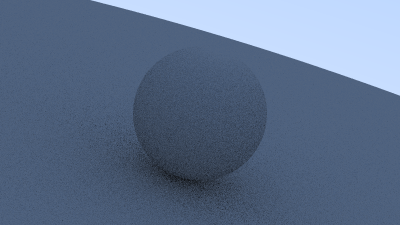
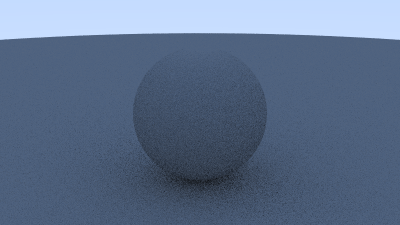
Camera: build the look-at orientation from the standard basis
The two-step axis-angle build tilted the camera: the pitch rotation carried the camera's right axis out of the horizontal plane, so the rendered horizon rolled with the aim. The orientation is now extracted from the standard look-at basis -- right = cross(forward, world_up) (horizontal for a vertical up), true_up = cross(right, forward), and the quaternion from the orthonormal matrix whose columns carry the camera's local axes, in the convention pygf's quat*vector applies (verified: the rotated forward matches the aim exactly and the right axis stays horizontal for an off-axis tripod position).

diff --git a/examples/ray_tarcing_in_one_weekend/camera.py b/examples/ray_tarcing_in_one_weekend/camera.py
@@ -7,7 +7,6 @@ from pygf import (
     clamp,
     normalize,
     cross,
-    dot,
 )
 import math
 import numpy as np
@@ -43,50 +42,49 @@ class Camera:
     def look_at(self, target: point3f, up: vector3f = vector3f(0, 1, 0)):
         """Aim the camera at ``target``, from its own position.
 
-        The orientation is built in two steps, each a verifiable axis-angle
-        quaternion: first the rotation that carries the camera's viewing direction
-        (0, 0, -1) onto (target - position), then a roll about that direction which
-        brings the camera's up as close to ``up`` as a rotation allows. Call it
-        before `update_params`, because the viewport's world-space step vectors are
-        derived from the orientation.
+        The basis is the standard look-at: right = cross(forward, up_world)
+        (horizontal for a vertical ``up``), true_up = cross(right, forward), and
+        the orientation is the rotation whose columns carry the camera's local x/
+        y/z onto that basis -- extracted from the orthonormal matrix with the
+        trace form. Call it before `update_params`, because the viewport's
+        world-space step vectors are derived from the orientation.
         """
         forward: vector3f = normalize(target - self.position)
-        base: vector3f = vector3f(0, 0, -1)
-        cos_turn: float = max(-1.0, min(1.0, -(forward.z)))
-        turn: float = math.acos(cos_turn)
-        if turn > 1e-9:
-            axis: vector3f = normalize(cross(base, forward))
-            half: float = turn / 2
-            self.orientation = quatf(math.cos(half),
-                                     axis.x * math.sin(half),
-                                     axis.y * math.sin(half),
-                                     axis.z * math.sin(half))
+        right: vector3f = normalize(cross(forward, up))
+        true_up: vector3f = cross(right, forward)
+        # The rotation matrix whose COLUMNS are the camera's local axes in world
+        # space (local x -> right, local y -> true_up, local z -> -forward, since
+        # the camera looks along its -z): R * v_local = v_world, which is the
+        # convention pygf's `quat * vector` applies.
+        m00, m10, m20 = right.x, right.y, right.z
+        m01, m11, m21 = true_up.x, true_up.y, true_up.z
+        m02, m12, m22 = -forward.x, -forward.y, -forward.z
+        trace: float = m00 + m11 + m22
+        if trace > 0.0:
+            s: float = math.sqrt(trace + 1.0) * 2.0
+            w: float = 0.25 * s
+            x: float = (m21 - m12) / s
+            y: float = (m02 - m20) / s
+            z: float = (m10 - m01) / s
+        elif m00 > m11 and m00 > m22:
+            s = math.sqrt(1.0 + m00 - m11 - m22) * 2.0
+            w = (m21 - m12) / s
+            x = 0.25 * s
+            y = (m01 + m10) / s
+            z = (m02 + m20) / s
+        elif m11 > m22:
+            s = math.sqrt(1.0 + m11 - m00 - m22) * 2.0
+            w = (m02 - m20) / s
+            x = (m01 + m10) / s
+            y = 0.25 * s
+            z = (m12 + m21) / s
         else:
-            # The forward direction is (anti-)parallel to the default: a 180-degree
-            # turn needs an axis from the roll vector instead (the cross product
-            # degenerates), and 0 degrees keeps the identity.
-            if forward.z > 0:
-                self.orientation = quatf(0, 0, 1, 0)
-            else:
-                self.orientation = quatf(1, 0, 0, 0)
-        # The roll: where did the camera's own up land? Rotate (0, 1, 0) by the
-        # orientation and measure the signed angle to the requested up, measured
-        # about the forward direction.
-        landed: vector3f = self.orientation * vector3f(0, 1, 0)
-        projected_up: vector3f = normalize(up - forward * (up * forward))
-        cos_roll: float = max(-1.0, min(1.0, dot(landed, projected_up)))
-        roll: float = math.acos(cos_roll)
-        # The sign: positive when landed sits clockwise from projected_up (as seen
-        # looking against the forward direction) -- the cross of the two, dotted
-        # with forward, says which way to roll.
-        roll_sign: float = 1.0 if dot(cross(landed, projected_up), forward) > 0 else -1.0
-        if roll > 1e-9:
-            half: float = roll_sign * roll / 2
-            self.orientation = (quatf(math.cos(half),
-                                      forward.x * math.sin(half),
-                                      forward.y * math.sin(half),
-                                      forward.z * math.sin(half))
-                                * self.orientation)
+            s = math.sqrt(1.0 + m22 - m00 - m11) * 2.0
+            w = (m10 - m01) / s
+            x = (m02 + m20) / s
+            y = (m12 + m21) / s
+            z = 0.25 * s
+        self.orientation = quatf(w, x, y, z)
 
     def update_params(self):
         self.image_height: int = int(self.image_width / self.aspect_ratio)
